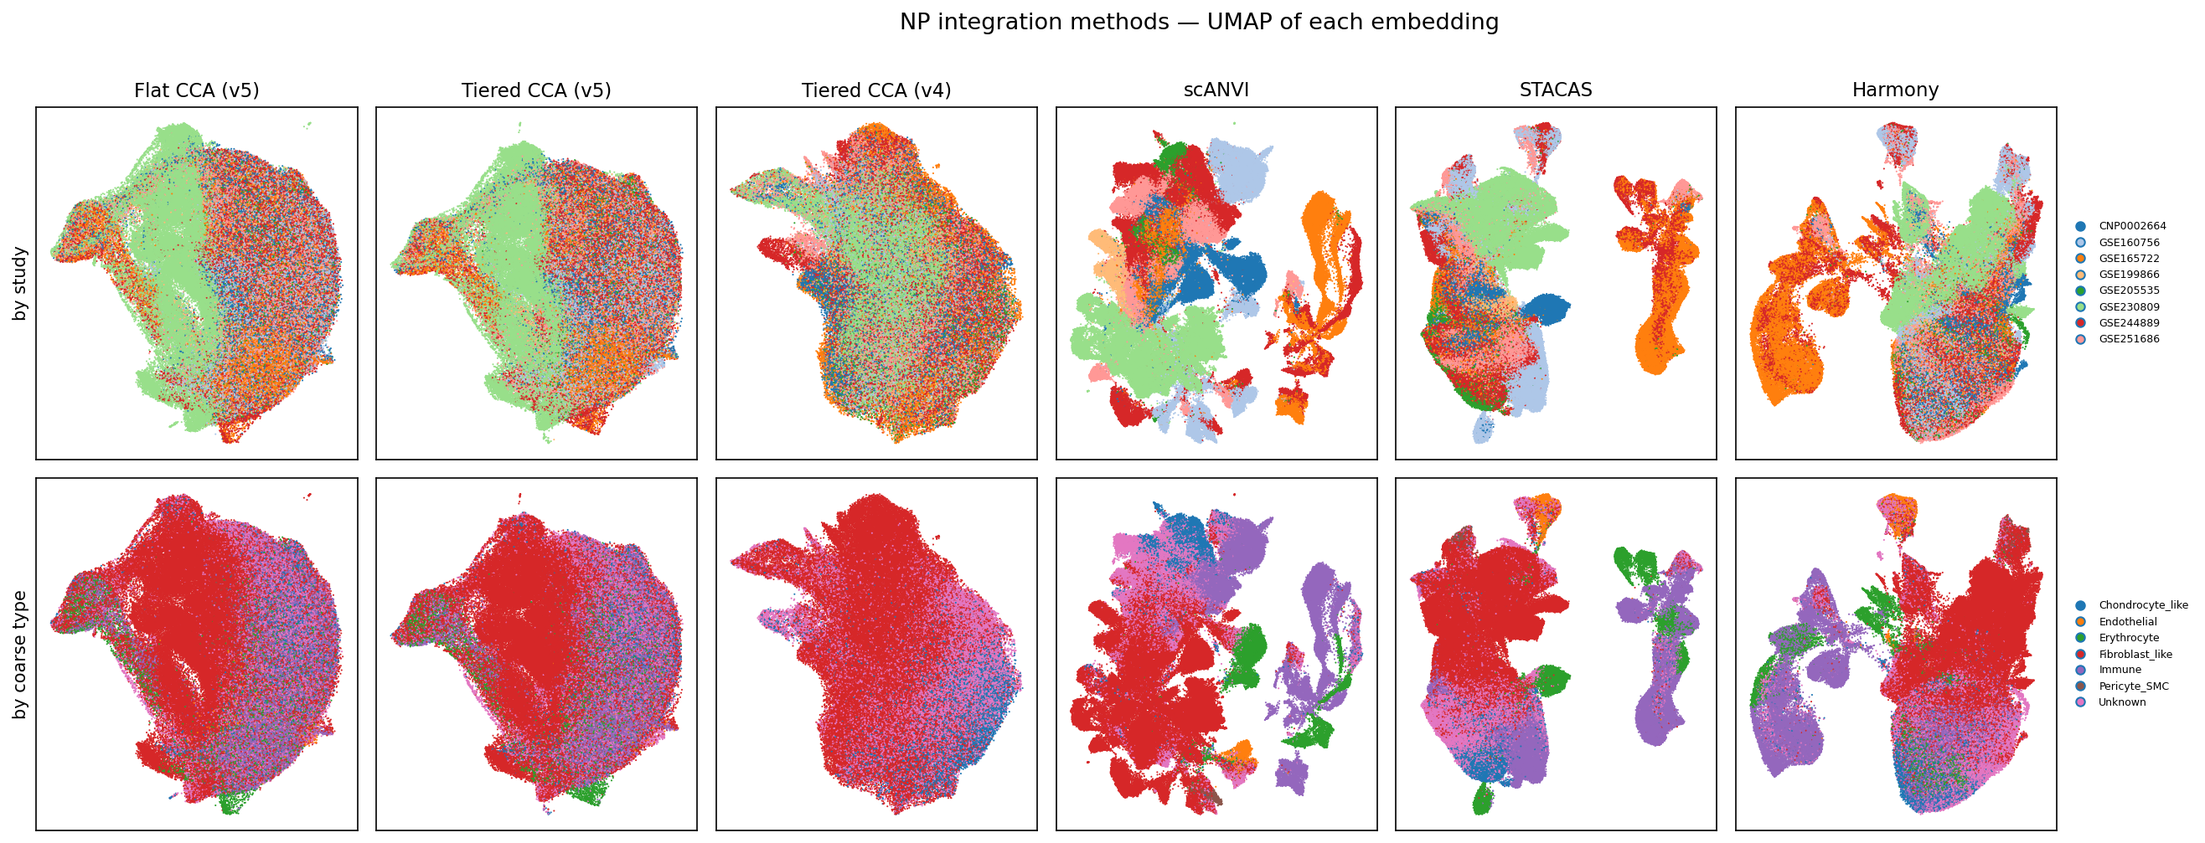
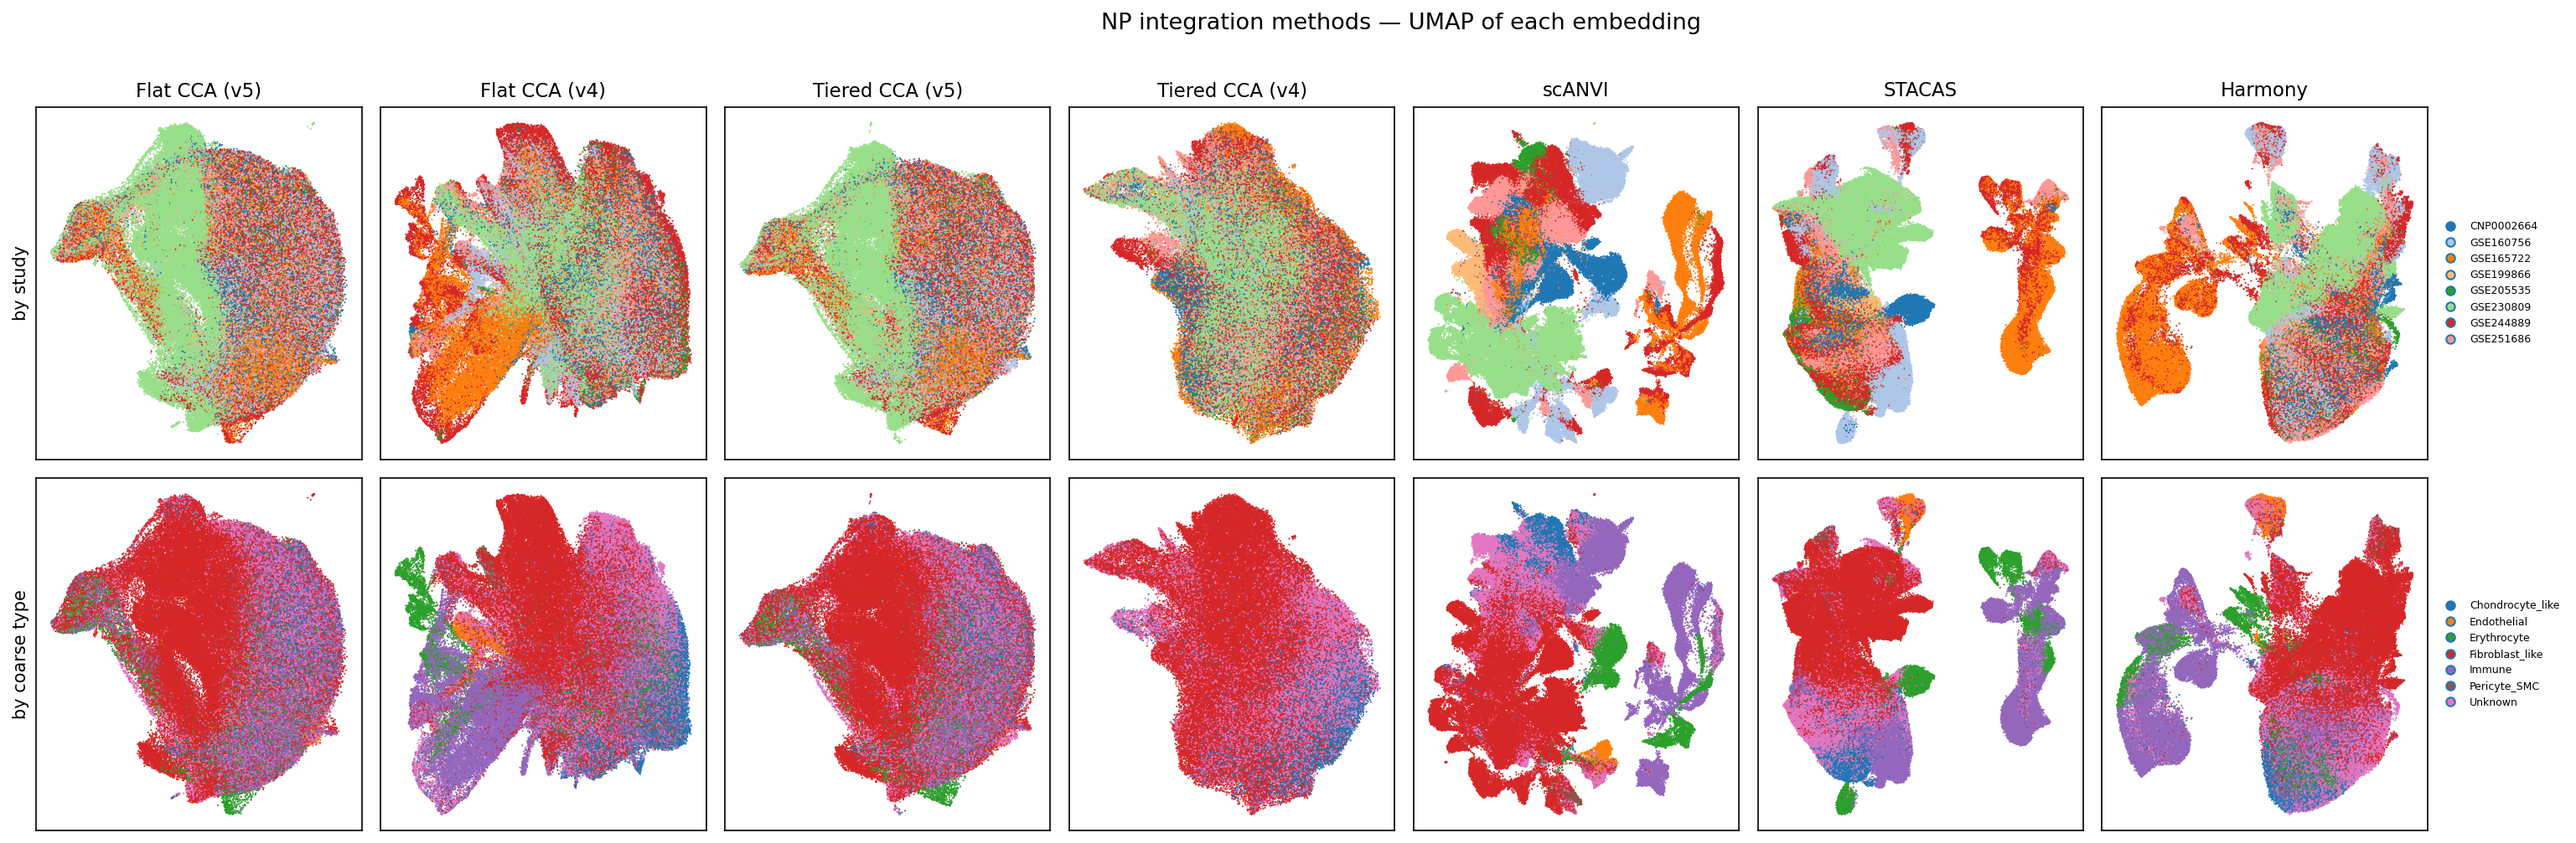
figs: add regenerated Flat CCA (v4) panel to Figure 14 NP grid
The flat_v4 NP embedding was cleared on disk by d99b45e, so Figure 14
shipped with 6 panels while its caption and metrics table described 7.
Re-ran the full-NP Seurat SCT+CCA flat integration (05g --mode flat_v4,
262,967 cells) to restore embedding_pca/umap, wired Flat CCA (v4) back
into 05o's EMB_FILES + figure methods list, and rebuilt the grid via
05o --stage figure. Figure 14 now has all 7 panels and matches caption.

Closes the low-priority follow-up noted 2026-06-22.

diff --git a/scripts/05o_unified_np_comparison.py b/scripts/05o_unified_np_comparison.py
@@ -59,6 +59,7 @@ STACAS_EXPORT = BASE / "data" / "integrated" / "stacas" / "embeddings_export" / 
 # CCA / tiered embeddings for the UMAP grid
 EMB_FILES = {
     "Flat CCA (v5)":      BASE / "data" / "integrated" / "cca" / "bridge_export" / "NP" / "embedding_integrated.cca.csv.gz",
+    "Flat CCA (v4)":      BASE / "data" / "integrated" / "np_experiment" / "flat_v4" / "all" / "embedding_pca.csv.gz",
     "Tiered CCA (v5)":    BASE / "data" / "integrated" / "np_experiment" / "tiered_v5" / "mesenchymal" / "embedding_integrated.cca.csv.gz",
     "Tiered CCA (v4)":    BASE / "data" / "integrated" / "np_experiment" / "tiered_v4" / "mesenchymal" / "embedding_pca.csv.gz",
     "Harmony":            BASE / "results" / "integration" / "harmony" / "NP" / "embedding_harmony.npy",
@@ -375,8 +376,8 @@ def stage_figure(args):
     matplotlib.use("Agg")
     import matplotlib.pyplot as plt
 
-    # methods to plot (omit flat_v4 — embedding gone)
-    methods = ["Flat CCA (v5)", "Tiered CCA (v5)", "Tiered CCA (v4)",
+    # methods to plot (flat_v4 embedding regenerated 2026-06-22 via 05g --mode flat_v4)
+    methods = ["Flat CCA (v5)", "Flat CCA (v4)", "Tiered CCA (v5)", "Tiered CCA (v4)",
                "scANVI", "STACAS", "Harmony"]
     emb_files = dict(EMB_FILES)
     emb_files["scANVI"] = SCANVI_OUT / "embedding_scanvi.npy"

diff --git a/analysis_plan.md b/analysis_plan.md
@@ -69,7 +69,7 @@ Historical snapshots retained: **Tiered v4 Module 06 Rerun (2026-05-22)** for th
 - **Issue #3 (iLISI vs batch_ASW):** both reported; divergence explained in prose (most pronounced for scANVI/STACAS, which also prompted a semi-supervised-circularity caveat).
 - **Outputs:** `results/integration/np_experiment/unified_comparison.{tsv,md}`; new **Figure 14** (`docs/manuscript_figures/fig14_np_integration_umap_grid.png`); manuscript table + prose updated; changelog entry added. PDF left stale (no PDF engine on host — regenerate separately).
 
-**Follow-up (noted 2026-06-22):** Figure 14 omits the **Flat CCA (v4)** UMAP panel — its metrics row is reused from `comparison_table.tsv`, but the embedding coordinate file (`data/integrated/np_experiment/flat_v4/all/`) was cleared on disk by commit `d99b45e` and, unlike scANVI/STACAS, was not regenerated for `05o` (non-production arm; re-running a full-NP Seurat v4 SCT+CCA flat integration purely to draw one panel wasn't warranted). The caption already states this. *If a reviewer flags the table-row-without-panel asymmetry:* regenerate the flat_v4 embedding via `Rscript scripts/05g_np_experiment.R --mode all` (or the flat_v4 arm specifically) on AWS, add its path to the `EMBEDDINGS` dict in `05o`, and re-run `python3 scripts/05o_unified_np_comparison.py --stage figure`. Low priority — cosmetic completeness only; the metrics comparison is unaffected.
+**Follow-up (noted 2026-06-22) — RESOLVED 2026-06-23:** Figure 14 previously omitted the **Flat CCA (v4)** UMAP panel (the embedding coordinate file `data/integrated/np_experiment/flat_v4/all/` had been cleared on disk by commit `d99b45e`). Now regenerated: `Rscript scripts/05g_np_experiment.R --mode flat_v4` re-ran the full-NP Seurat SCT+CCA flat integration on all 262,967 cells (Jun 22 18:04 → completed 2026-06-23 00:53; log `logs/05g_flat_v4_20260622_180429.log`), restoring `embedding_pca.csv.gz`/`embedding_umap.csv.gz`. The `Flat CCA (v4)` path was added to the `EMB_FILES` dict in `05o` and restored to the figure `methods` list, and `python3 scripts/05o_unified_np_comparison.py --stage figure` re-ran (Jun 23 12:13 → 12:40) to produce the now-**7-panel** grid. Figure 14 matches its caption (flat CCA v5+v4, tiered CCA v5+v4, scANVI, STACAS, Harmony). The metrics comparison was unaffected throughout.
 
 > Original scaffold note (retained as the planning record):
 
